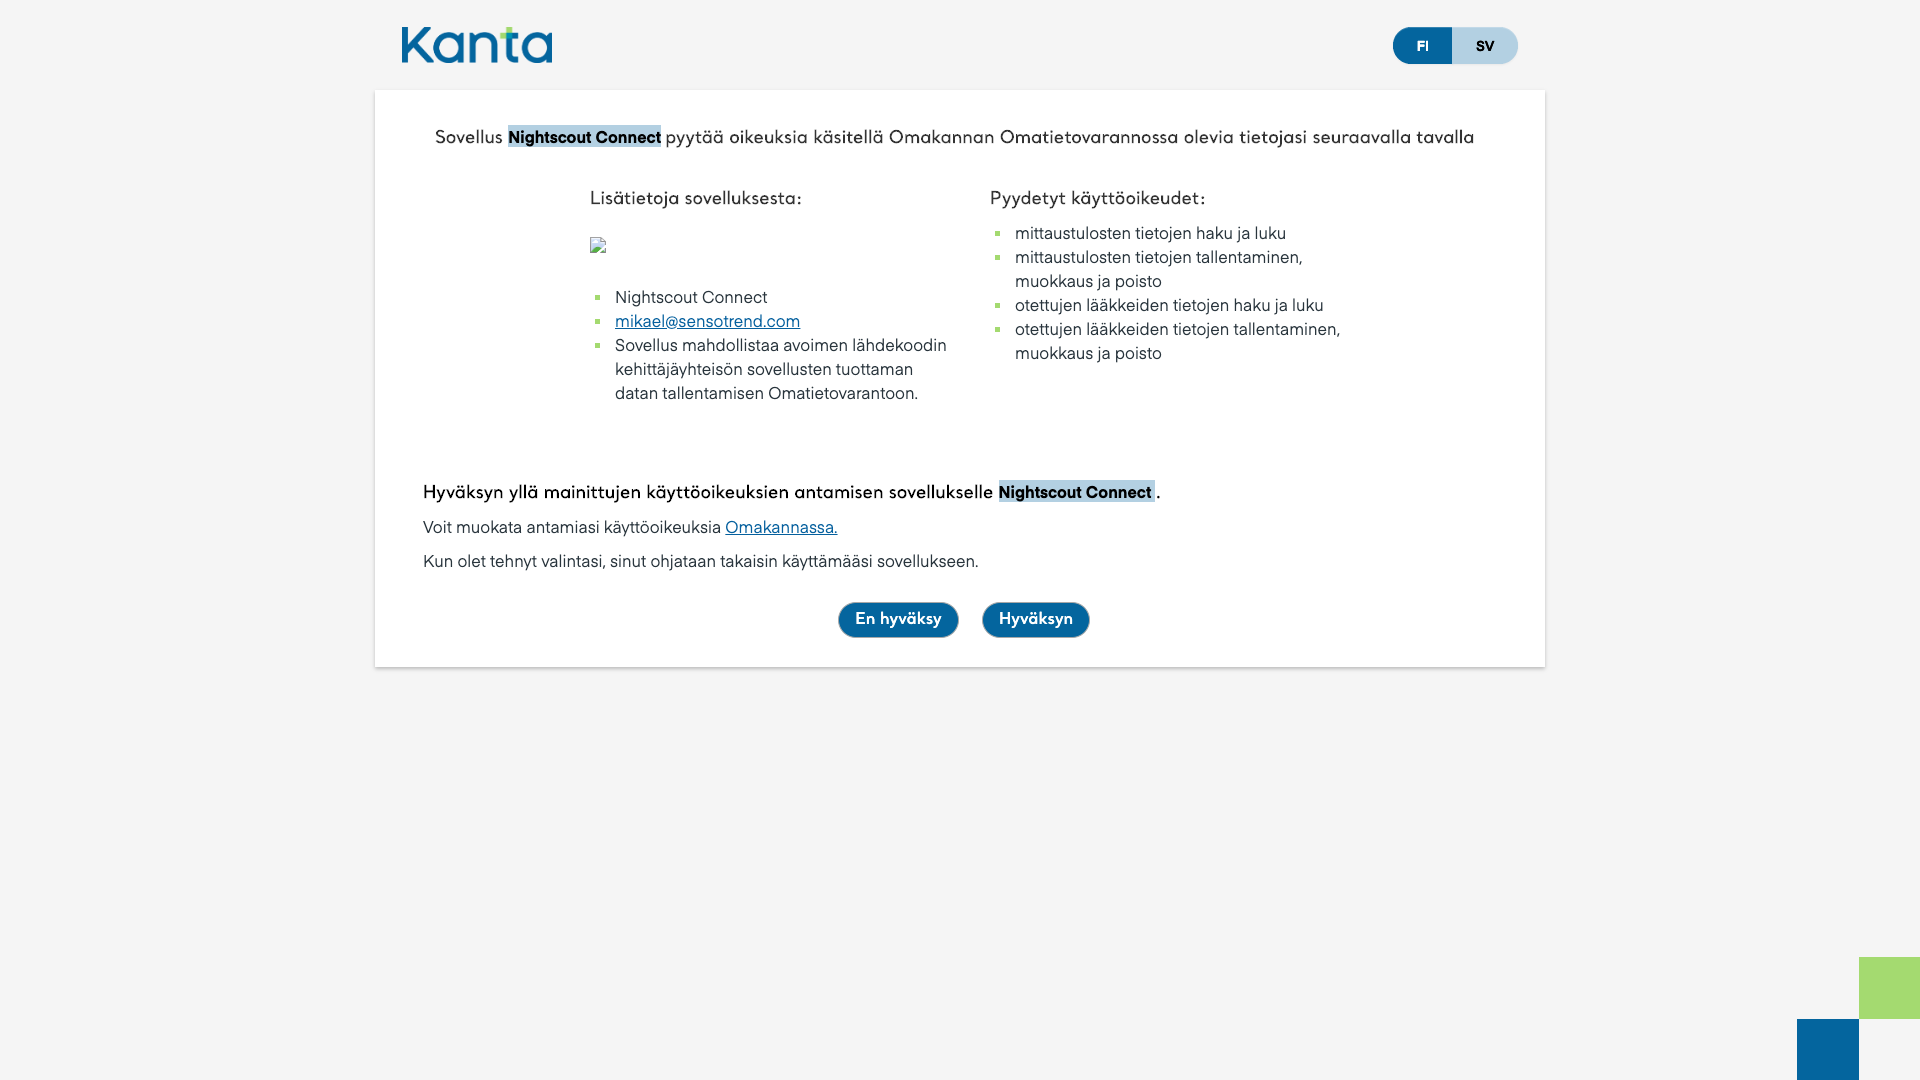
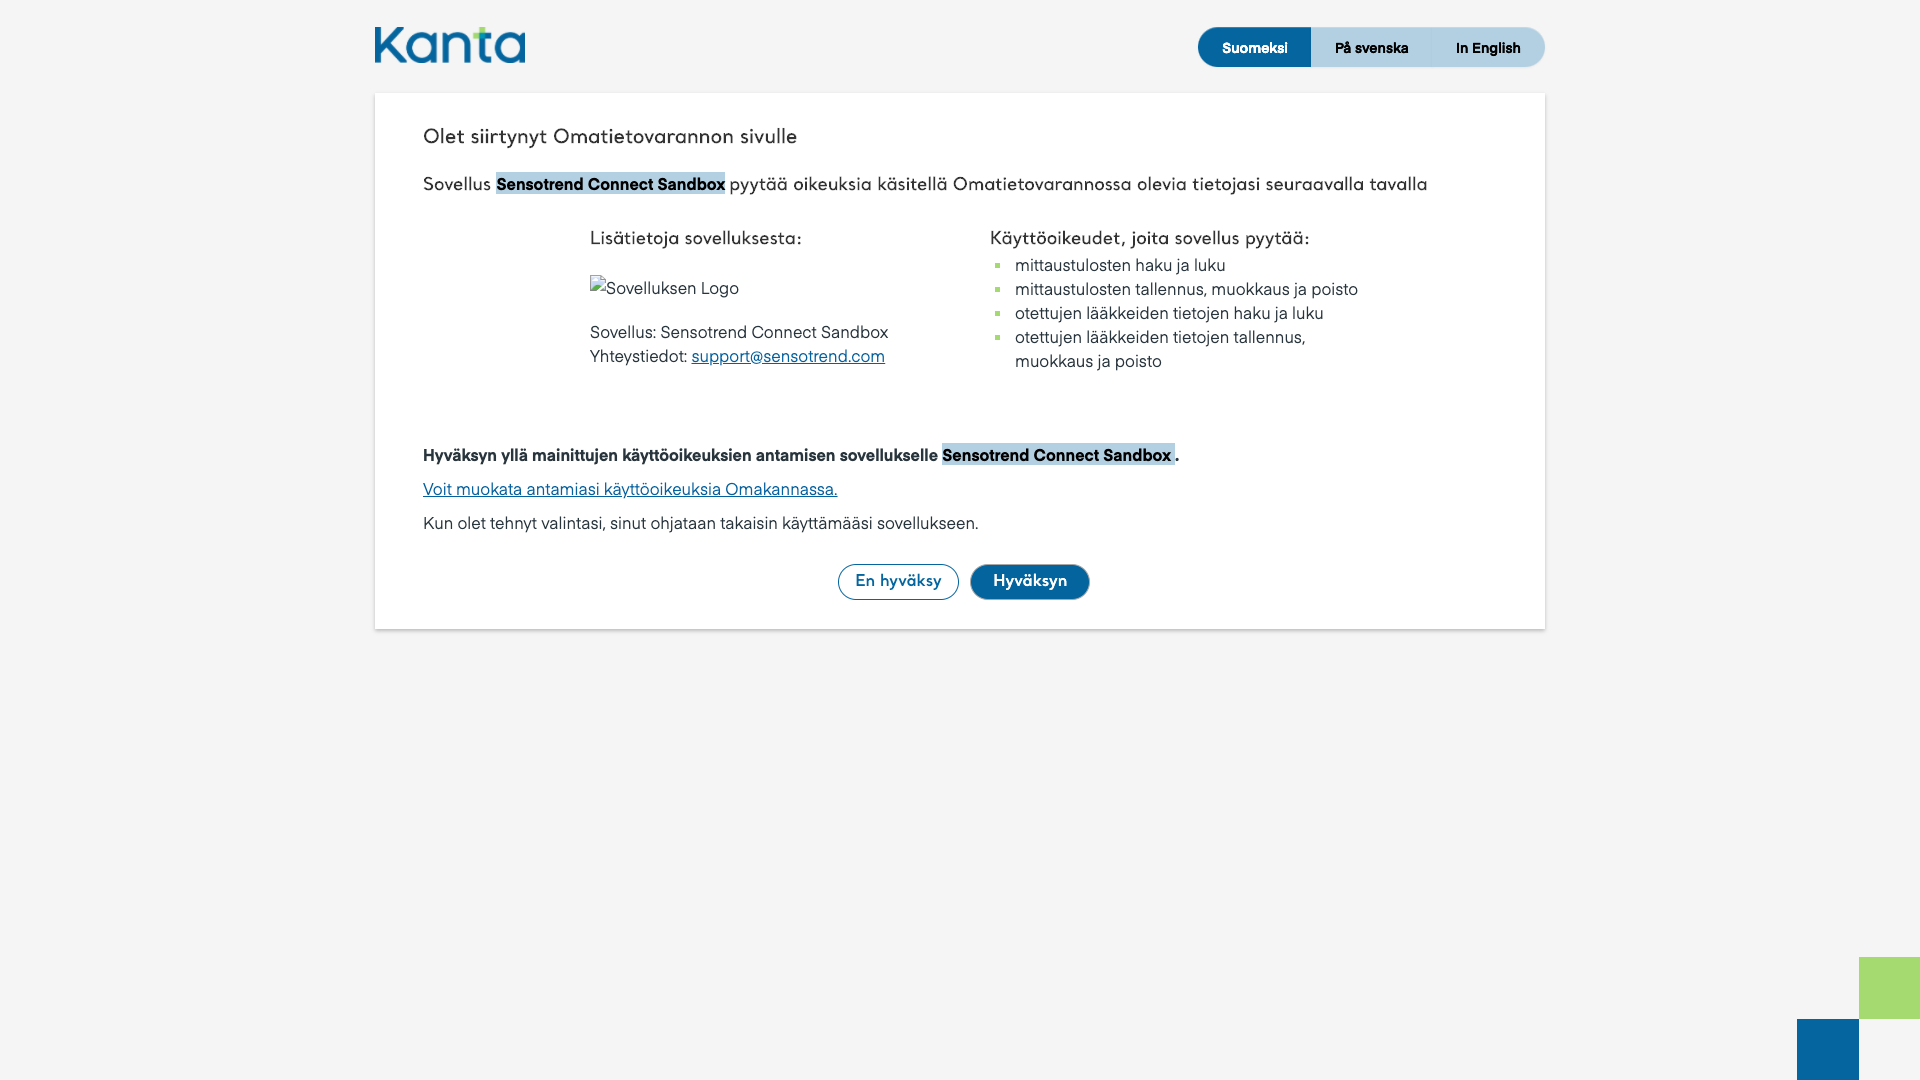
Update instructions with proper screen captures

diff --git a/src/Instructions/Instructions.js b/src/Instructions/Instructions.js
@@ -187,7 +187,7 @@ class Instructions extends Component {
 
             <h3 id="onboarding">Palvelun käyttöönotto</h3>
             <p>
-              Palvelun käyttöönottoon liittyy 5 vaihetta:
+              Palvelun käyttöönottoon liittyy 3 vaihetta:
             </p>
             <ol>
               <li id="signin">
@@ -220,7 +220,7 @@ class Instructions extends Component {
               <li>
                 <figure>
                   <figcaption>
-                    Salli Nightscout.fi-sovelluksen lukea ja kirjoittaa tietoja puolestasi
+                    Salli Sensotrend Connect -sovelluksen lukea ja kirjoittaa tietoja puolestasi
                     Omatietovarantoon.
                     </figcaption>
                   <img alt="Ruutukaappaus Omatietovarannon luvituksesta" src={consentImage} />
@@ -236,15 +236,10 @@ class Instructions extends Component {
                   <img alt="Ruutukaappaus sähköpostiosoitteen kysymisestä" src={emailRegImage} />
                 </figure>
               </li>
-              <li>
-                <figure>
-                  <figcaption>
-                    Vahvistettuasi sähköpostiosoitteesi tunnuksesi on aktivoitu
-                  </figcaption>
-                  <img alt="Ruutukaappaus palvelun näkymästä" src={credentialsImage} />
-                </figure>
-              </li>
             </ol>
+            <p>
+              Vahvistettuasi sähköpostiosoitteesi tunnuksesi on aktivoitu.
+            </p>
             <p>
               Voit käyttää luomaasi käyttäjätunnusta ja salasanaa <a
               href="#SensotrendUploader">Sensotrend Uploader</a> - ja <a
